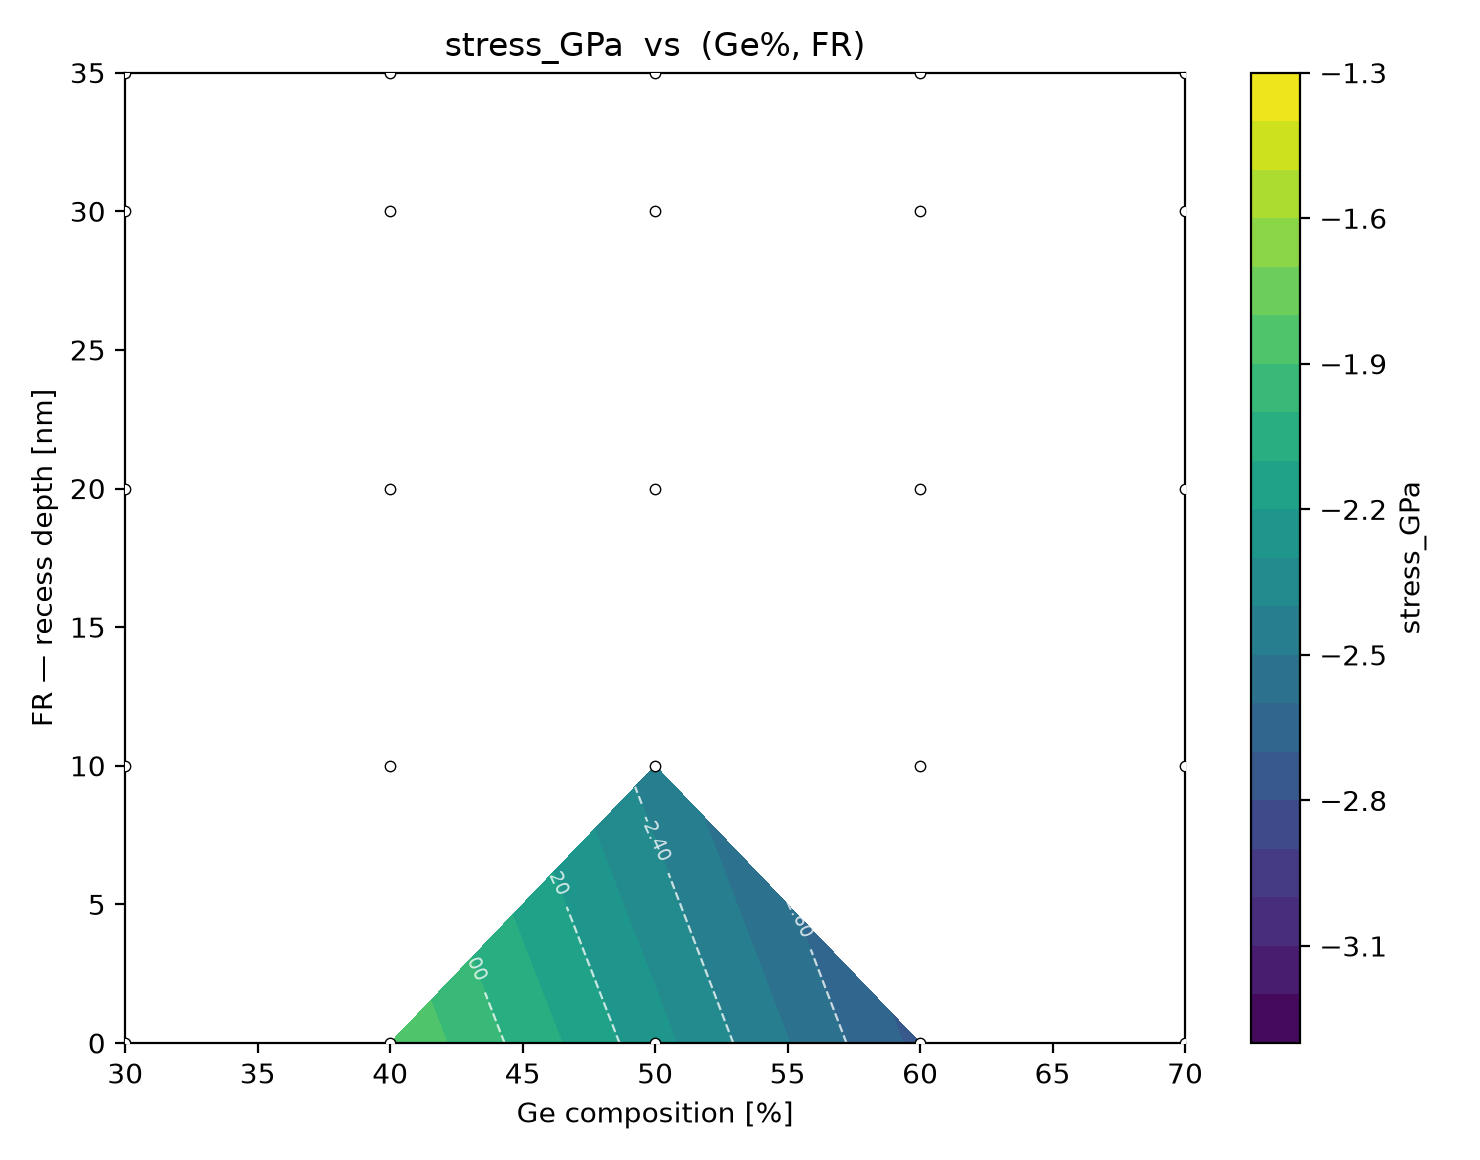
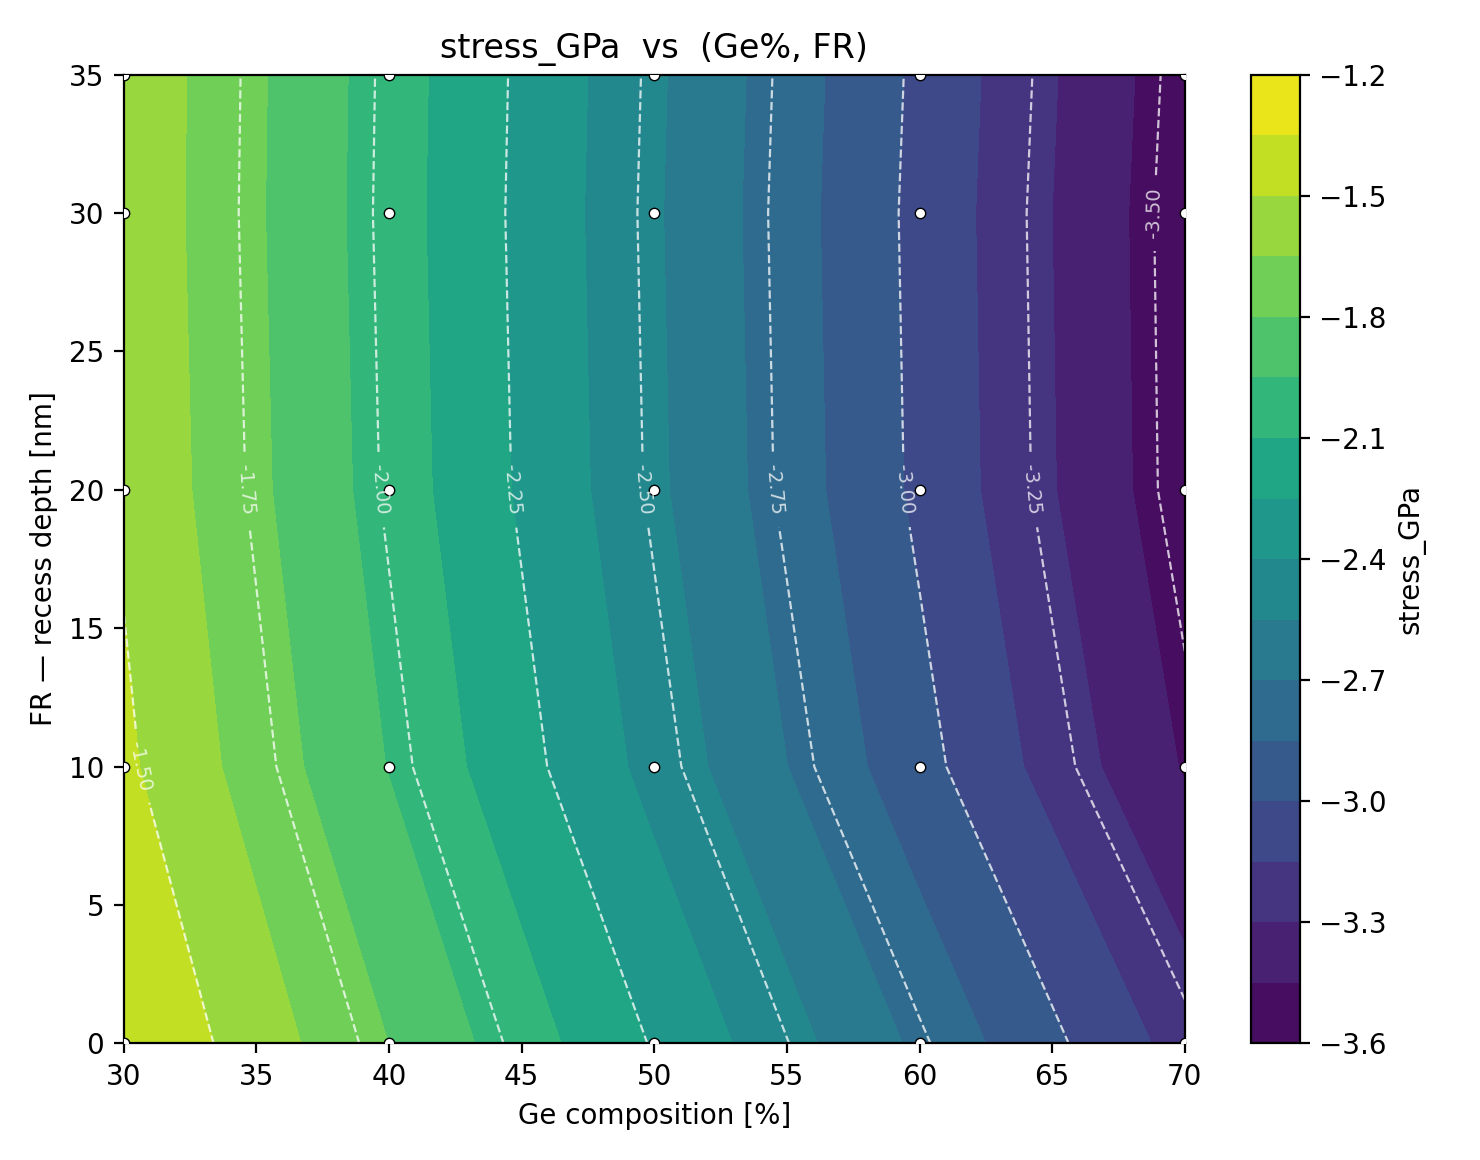
data: #13(주수빈 G낮은열 전체) 반영 — DoE 격자 25/25(100%) 완주

diff --git a/baseline/README.md b/baseline/README.md
@@ -53,3 +53,4 @@
 | 2026-08-13 | **#10(주수빈, Ge% 낮은 열 단독 스윕)·#12/#14(유용성, FR 단독 스윕=Ge% 중간열)** 격자점 CSV 반영 — `runs/유용성_G중간열.csv`(G50_F0~F35 5점 전부, 전기적 지표 완비), `runs/주수빈_Ge스윕.csv`(G30_F0, G40_F0). `build.py`가 헤더 1줄 + `[n12]: 0.4` 노드 태그 export 형식(팀원마다 Export Variables 옵션이 달라 생긴 세 번째 형식)도 인식하도록 `looks_like_swb`/`read_swb`에 파서 보강. `analysis/progress.json` #10/#12/#14 체크. 전체 격자 진행률 7/25(28%) | FR 축은 5점 다 채워져 트렌드 판정 가능해졌고(문헌 방향과 일치하되 FR=30~35에서 SS/Ioff 트레이드오프 관찰), Ge% 축도 30/40/50 세 점으로 1차 트렌드 확인 가능해짐 — 나머지 격자점(Ge=60/70, Ge=30/40의 FR=10~35)은 계속 진행 중 | — (PR 생략, 직접 반영) |
 | 2026-08-13 (2) | **#11(남다연, Ge% 높은 열 단독 스윕)** 격자점 CSV 반영 — `runs/남다연_Ge스윕.csv`(G60_F0, G70_F0). `analysis/progress.json` #11 체크 — 이로써 Ge% 축(30/40/50/60/70%, FR=0 고정) 5점 전부 완료. 전체 격자 진행률 9/25(36%) | Ge% 축 트렌드가 30~70% 전 구간에서 확인됨: 응력(SlFin) -1346→-3210MPa, IdSat_norm 4.72e-4→6.32e-4, gmSat도 9.58e-5→1.14e-4 로 전부 반전 없이 단조 증가 — FR 축과 달리 이 구간에선 gmSat도 같이 계속 올라서(포화 없음) "이동도 개선"과 "IdSat_norm 증가"가 분리되지 않고 같은 방향으로 감. 다만 SSSat(105→316)·Ioff_norm(1.07e-10→6.01e-10)도 같이 계속 나빠지는 트레이드오프는 동일하게 존재 | — (PR 생략, 직접 반영) |
 | 2026-08-15 | **#15(남다연, Ge% 높은 열 전체 격자)** 완료 — `runs/남다연_G높은열.csv`(G60/G70 × FR=0/10/20/30/35, 8개 신규 격자점). SWB "Open view in a spreadsheet"가 팀원 서버에 스프레드시트 프로그램이 없어 실행 불가했던 문제를, 결과 셀만 선택해 복사 → 원격 세션 내 `gedit`에 붙여넣기 → 파일로 저장 → 다운로드하는 방식으로 우회해 확보. `analysis/progress.json` #15 체크. 전체 격자 진행률 17/25(68%) — 남은 건 Ge=30/40의 FR=10~35(#13, 주수빈)뿐 | G60_F0/G70_F0는 기존 `남다연_Ge스윕.csv`와 교차검증 결과 편차 0.0%로 일치(같은 데이터 다른 경로로 재확인된 셈). gmSat이 FR=20 근처에서 포화되는 패턴이 Ge=60%·70%에서도 동일하게 재현됨(1.19e-4, 1.24e-4에서 각각 피크 후 정체) — 8/13(2)에 Ge=50%에서만 확인했던 "gm 포화 vs IdSat_norm 지속 상승" 디커플링이 Ge% 축 전체에서 일반적인 현상임을 확인. SSSat도 세 Ge% 모두 FR=20 부근에서 최저, FR=30~35에서 급격히 재악화되는 동일한 U자형 패턴 재현 — FR=30/35 트레이드오프가 Ge%와 무관한 리세스 깊이(전기적/구조적) 자체의 효과로 보임 | — (PR 생략, 직접 반영) |
+| 2026-08-15 (2) | **#13(주수빈, Ge% 낮은 열 전체 격자)** 완료 — `runs/주수빈_G낮은열.csv`(G30/G40 × FR=0/10/20/30/35, 8개 신규 격자점). `analysis/progress.json` #13 체크. **이로써 DoE 격자 25/25(100%) 완주.** `contour.py --all-figures` 첫 전체 실행 — 교호작용 회귀 R²=0.9947, Ge%×FR 교호작용 계수 -0.034(\|t\|=1.57<2, 유의하지 않음) → "(a) 상호작용 없음·독립" 판정. `analysis/figures/contour_stress_GPa.png` 최초로 빈 곳 없이 생성 | 격자 완주로 #17(2D STE 지도)·#18(교호작용 정량화)을 실제 데이터로 시작할 수 있게 됨. `contour.py`의 "시너지 정량화" 섹션이 "최댓값 지점: G30_F0"를 출력하는데, 이는 stress_GPa가 음수(압축응력)라 대수적으로 가장 큰(0에 가장 가까운) 값을 고른 것일 뿐 — 실제 응력 크기가 가장 큰 지점은 G70_F30(-3.560GPa)이다. 발표 자료에 이 스크립트 출력을 그대로 인용하면 안 되고 반드시 부호 설명을 붙여야 함. gm 포화(FR=20 근처) vs SSSat 재악화(FR=30~35) 패턴이 Ge=30/40%에서도 동일 재현 — 5개 Ge% 전 구간에서 일반적인 FR축 현상으로 확정 | — (PR 생략, 직접 반영) |
